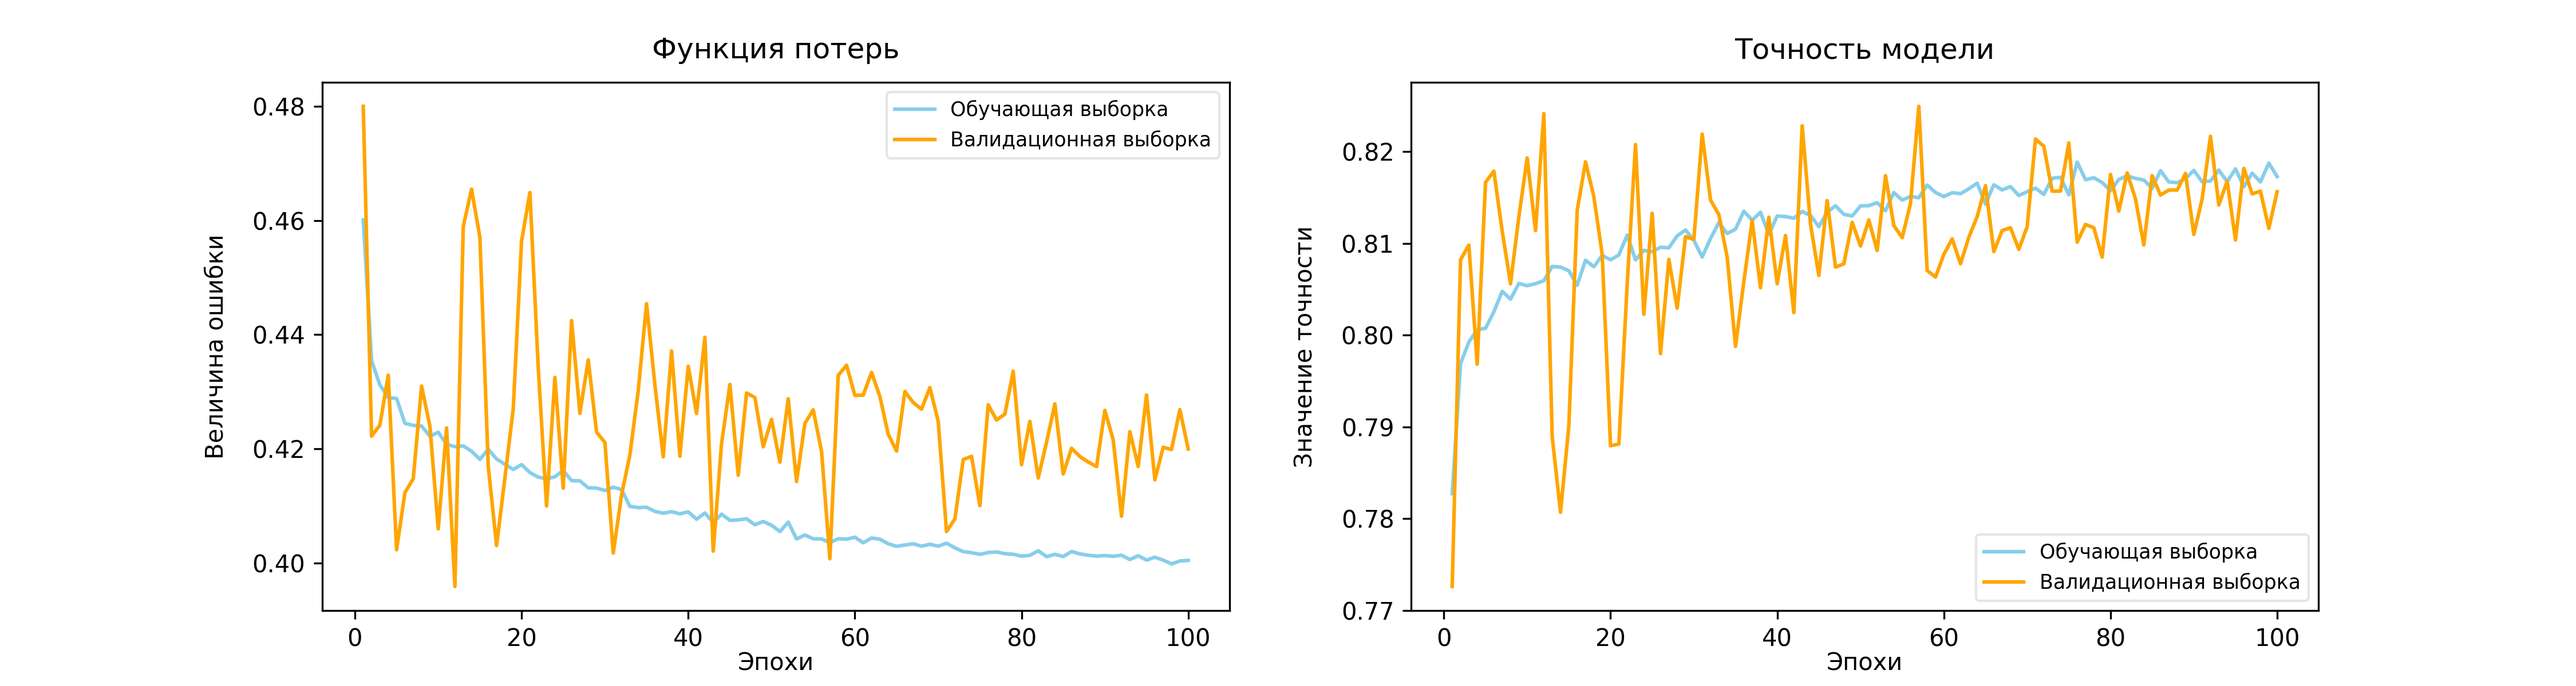
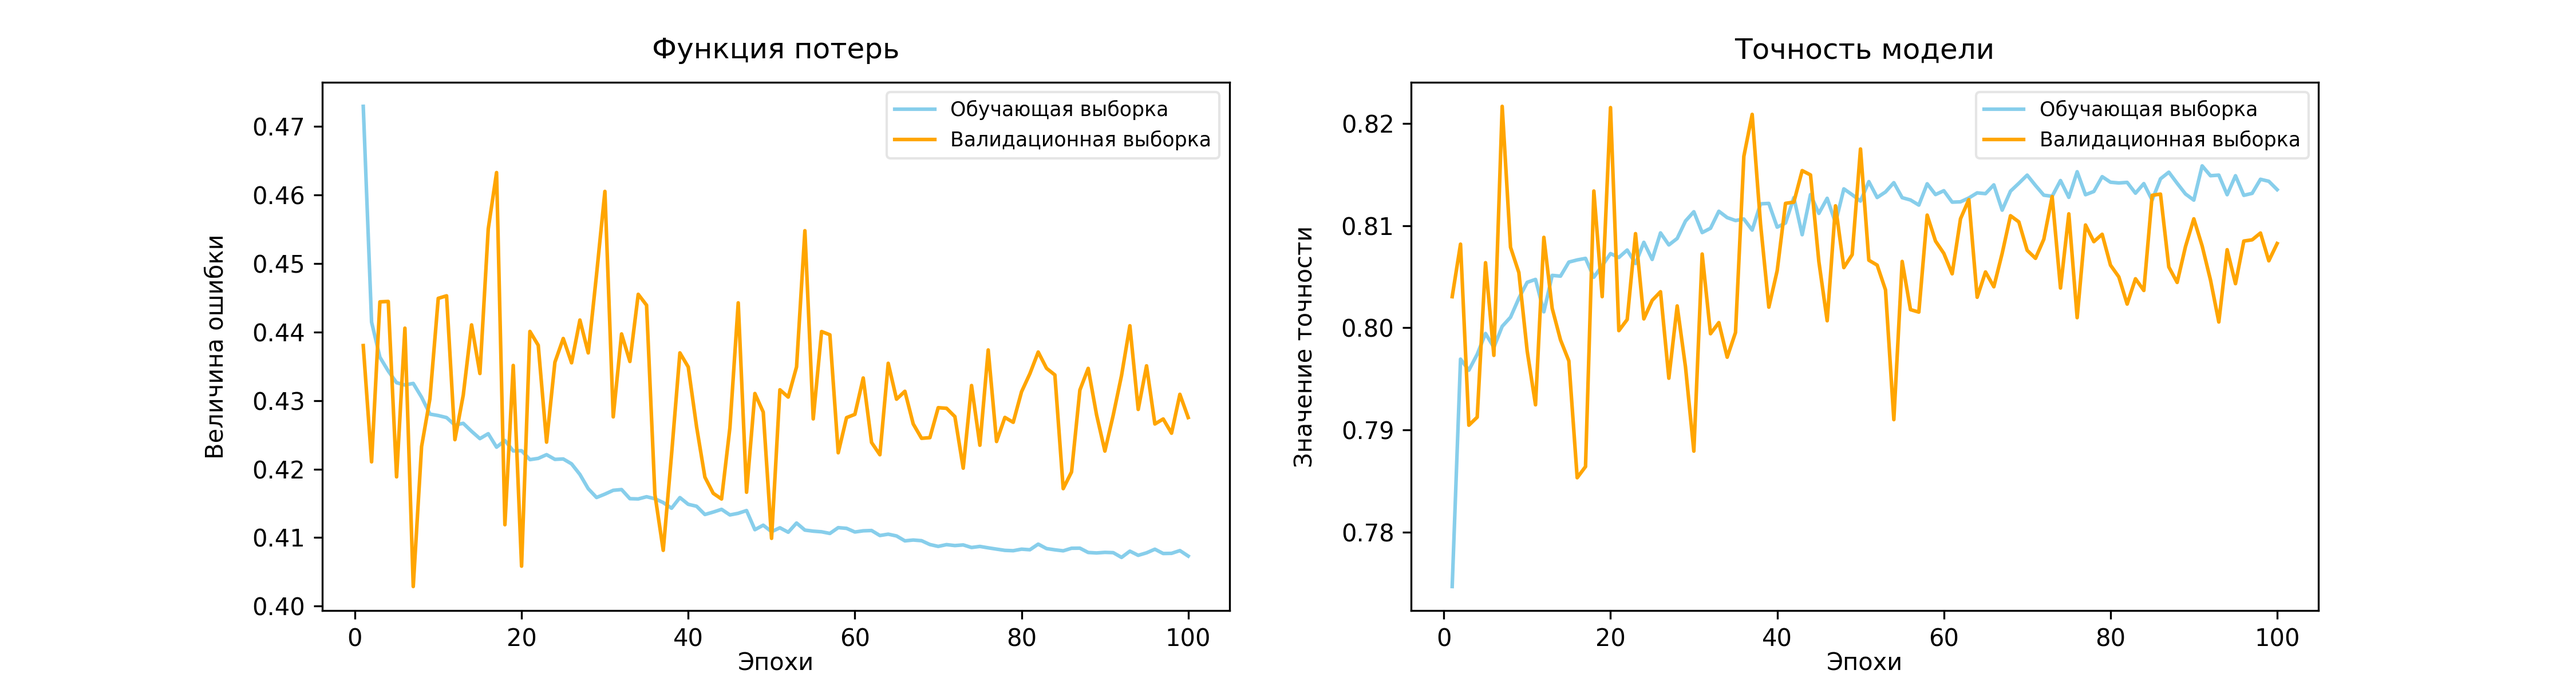
Averaging weights over the N last epochs

diff --git a/utils/callbacks.py b/utils/callbacks.py
@@ -1,4 +1,27 @@
-from keras.callbacks import EarlyStopping, ReduceLROnPlateau
+import numpy as np
+from keras.callbacks import Callback, EarlyStopping, ReduceLROnPlateau
+
+
+class AverageWeights(Callback):
+    def __init__(self, window: int = 5):
+        super().__init__()
+        self.window = window
+        self.last_weights = []
+
+    def on_epoch_end(self, epoch, logs=None):
+        self.last_weights.append(self.model.get_weights())
+        self.last_weights = (
+            self.last_weights[-self.window :]
+            if len(self.last_weights) > self.window
+            else self.last_weights
+        )
+
+    def on_train_end(self, logs=None):
+        average_weights = []
+        for weights in zip(*self.last_weights):
+            average_weights.append(np.mean(weights, axis=0))
+        self.model.set_weights(average_weights)
+        print(f"Setting weights over the last {self.window} epochs")
 
 
 def early_stopping() -> EarlyStopping:
@@ -9,7 +32,7 @@ def early_stopping() -> EarlyStopping:
         verbose=1,
         mode="auto",
         baseline=None,
-        restore_best_weights=True,
+        restore_best_weights=False,
         start_from_epoch=0,
     )
 
@@ -27,4 +50,8 @@ def reduce_lr() -> ReduceLROnPlateau:
     )
 
 
-__all__ = ["early_stopping", "reduce_lr"]
+def average_weights(window: int = 5) -> AverageWeights:
+    return AverageWeights(window)
+
+
+__all__ = ["early_stopping", "reduce_lr", "average_weights"]

diff --git a/utils/models.py b/utils/models.py
@@ -23,9 +23,9 @@ sys.path.append(os.path.abspath(os.path.join(os.path.dirname(__file__), "..")))
 # Добавляем корневую папку проекта в sys.path:
 sys.path.append(os.path.abspath(os.path.join(os.path.dirname(__file__), "..", "..")))
 
-from utils.callbacks import early_stopping, reduce_lr
-from utils.plots import plot_roc_curve
-from utils.statistic import find_optimal_threshold, calculate_confusion_matrix
+from utils.callbacks import *
+from utils.plots import *
+from utils.statistic import *
 from package.embeddings import *
 from package.ensembles import *
 
@@ -35,7 +35,6 @@ def create_model(hidden_units, pos, neg) -> Model:
 
     input = Input(shape=(12,))
     x = Dense(units=hidden_units, activation="relu")(input)
-    # x = LayerNormalization()(x)
     output = Dense(units=1, activation="sigmoid")(x)
 
     model = Model(inputs=input, outputs=output)
@@ -177,7 +176,6 @@ def train_model(
     isSave: bool,
     filename: str = "",
 ) -> Dict[str, List[float]]:
-    # print(model.layers[-1].get_weights())
     history = model.fit(
         x=x_train,
         y=y_train,
@@ -187,7 +185,7 @@ def train_model(
         validation_split=0.2,
         shuffle=True,
         class_weight=class_weight,
-        callbacks=[early_stopping(), reduce_lr()],
+        callbacks=[early_stopping(), reduce_lr(), average_weights(100)],
     )
     if isSave:
         script_dir = os.path.dirname(os.path.abspath(__file__))

diff --git a/test3.py b/test3.py
@@ -1,7 +1,26 @@
 import numpy as np
-import matplotlib.pyplot as plt
 
-x = np.linspace(0, 5, 100)
-y = x**2
-plt.plot(x, y)
-plt.show()
+x = [np.array([[1, 2, 3], [4, 5, 6]]), np.array([7, 8, 11])]
+y = [2 * np.array([[1, 2, 3], [4, 5, 6]]), 2 * np.array([7, 8, 11])]
+w = []
+w.append(x)
+w.append(y)
+# print(w)
+
+# # Реализация:
+# weights = list(map(lambda x: x[0], w))
+# biases = list(map(lambda x: x[1], w))
+
+# new_weights = [np.mean(weights, axis=0), np.mean(biases, axis=0)]
+
+# print()
+# print(new_weights)
+
+# average_weights = []
+# for weights in zip(*w):
+#     average_weights.append(np.mean(weights, axis=0))
+
+# print(average_weights)
+
+a = [1, 2, 3, 4, 5]
+print(a[-4:])
